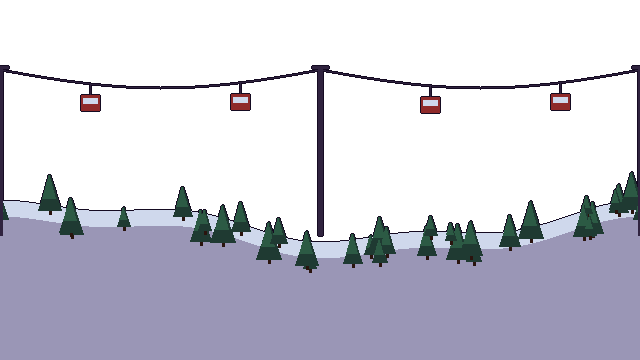
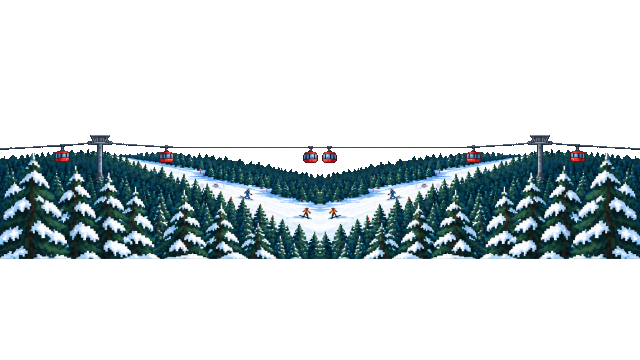
Vail world: Higgsfield layers (snowy peaks, gondola, pines)
Claude-Session: https://claude.ai/code/session_01QtD76jZP7ynNj9DKqbs7sk

diff --git a/src/levels/worlds/vail.js b/src/levels/worlds/vail.js
@@ -1,7 +1,9 @@
 // WORLD: VAIL, john-summit's world: Vail ski mountain: the downhill run, the gondola through green pines, golden sky over layered ridgelines (levels-input/john-summit/world 01, 02, 04, 05).
 // Looks only. Gameplay files (src/levels/gameplay/) name this world but never change it.
-// Art: tools/world_djs.py draws the four layers into src/art/world/vail/ (a first pass, made to be
-// redrawn); the 'layers' builder in src/art/background.js puts them together.
+// Art: made in Higgsfield (pictures in project files art/worlds/vail/), shrunk into
+// src/art/world/vail/ with `python3 tools/hf_world.py <dir> vail far=1,0.56,0.5 mid=1,0.72,0.5
+// near=0.5,0.765,0.5 repeat=near:2 seam=far:mirror seam=mid:mirror seam=near:mirror dim=near:0.85`;
+// the 'layers' builder in src/art/background.js puts them together.
 export default {
   id: 'vail',
   name: 'VAIL', // top bar
@@ -13,10 +15,10 @@ export default {
   tiles: 'tiles', // tileset (src/art/world/tiles.png, shared for now)
   pit: 'black',
   layers: [
-    'sky: golden mountain sky (fixed)',
-    'far: layered ridgelines with snow (0.05)',
-    'mid: the ski run, pines and the gondola with red cabins (0.15)',
-    'near: big snowy pines and a skier (0.35)',
+    'sky: clear blue winter sky with the sun and small clouds (fixed; its own palette, no dusk)',
+    'far: jagged snowy peaks and blue ridgelines (0.05)',
+    'mid: pine forest, a ski run with tiny skiers and the gondola with red cabins (0.15)',
+    'near: groups of snowy pines on snow banks (0.35)',
     'effect: falling snow',
   ],
   motifs: ['gondola cabins as floating platforms', 'slopes: long runs downhill', 'snowballs (boss)'],
